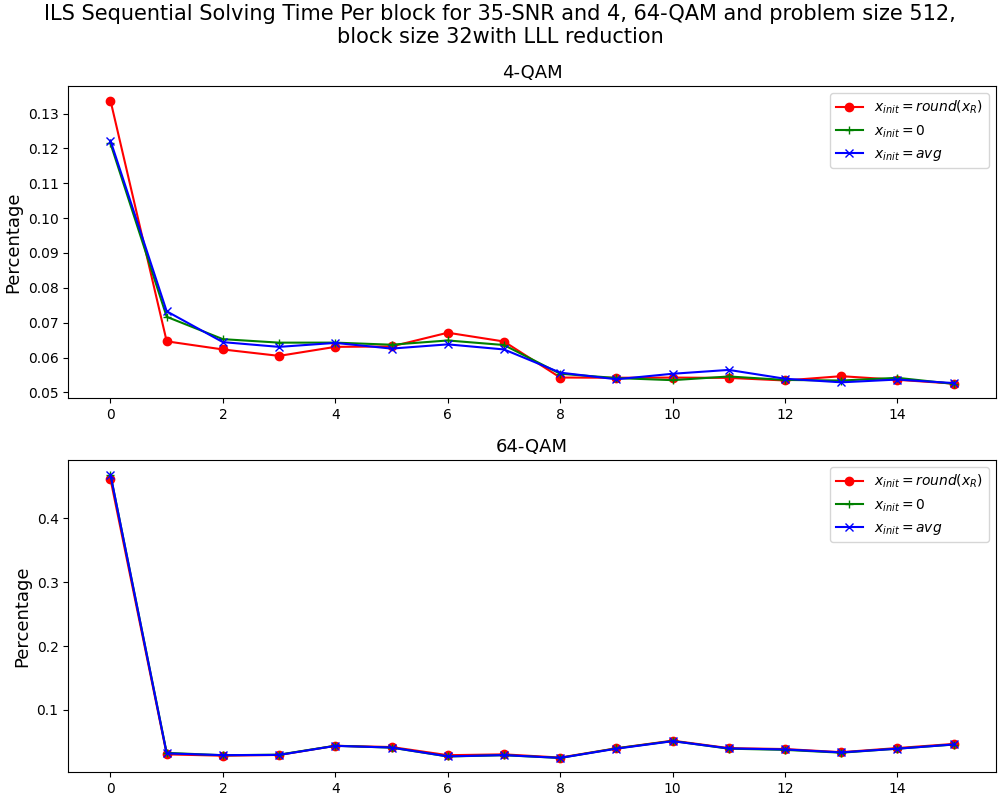
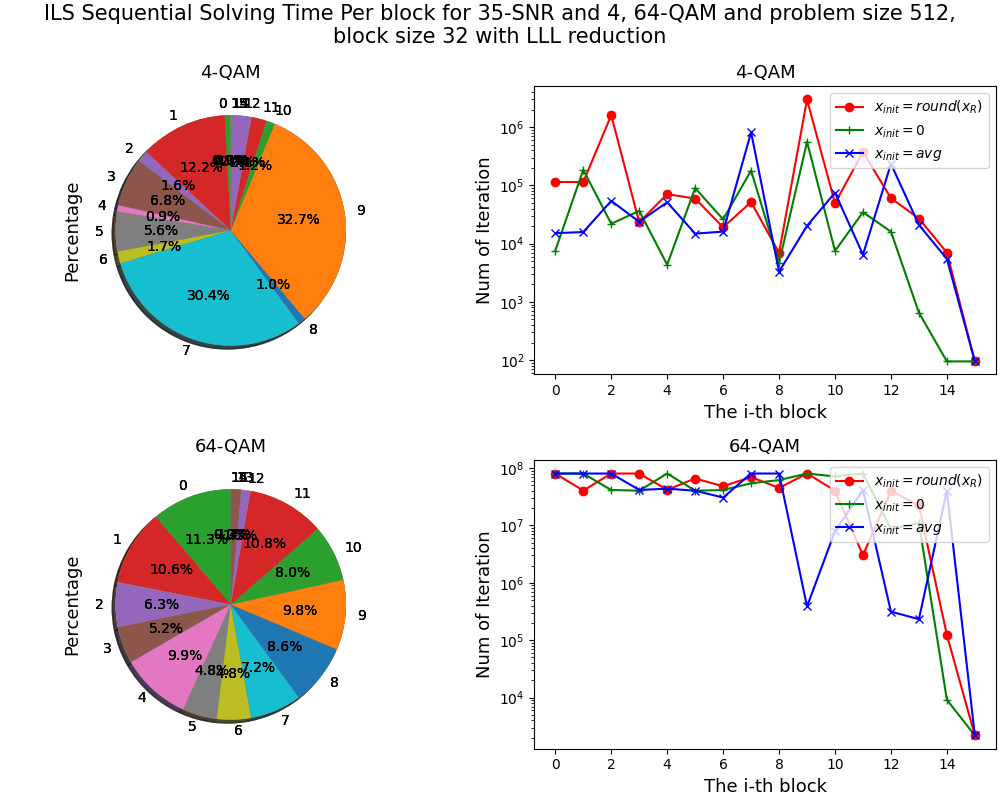
Merge os_x plot_helper

diff --git a/babai_asyn_c++/src/example/plot_helper.py b/babai_asyn_c++/src/example/plot_helper.py
@@ -71,7 +71,7 @@ def plot_runtime(n, SNR, k, l_max, block_size, max_iter, is_qr, res, ber, tim, i
     title = 'Residual Convergence and Bit Error Rate for ' + str(SNR) \
             + '-SNR and 4, 64-QAM with different number of threads and block size ' + str(block_size)
     if is_qr == 0:
-        title += 'with LLL reduction'
+        title += ' with LLL reduction'
 
     fig.suptitle("\n".join(wrap(title, 60)), fontsize=15)
 
@@ -84,7 +84,7 @@ def plot_runtime(n, SNR, k, l_max, block_size, max_iter, is_qr, res, ber, tim, i
 def plot_first_block(n, SNR, k, block_size, ser_tim, is_qr):
     print("\n----------PLOT BLOCK TIME--------------\n")
     plt2.rcParams["figure.figsize"] = (10, 8)
-    fig, axes2 = plt2.subplots(2, 1, constrained_layout=True)
+    fig, axes2 = plt2.subplots(2, 2, constrained_layout=True)
     color = ['r', 'g', 'b', 'y']
     marker = ['o', '+', 'x', '.']
     d_s = int(n / block_size)
@@ -94,24 +94,33 @@ def plot_first_block(n, SNR, k, block_size, ser_tim, is_qr):
         # SNR = int(lines[k].split(":")[1].split("\n")[0])
         # init_res = float(lines[k + 1].split(",")[0].split(":")[1].split("\n")[0])
         qam = 4 if j == 0 else 64
-        axes2[j].set_title(str(qam) + '-QAM', fontsize=13)
-        axes2[j].set_ylabel('Percentage', fontsize=13)
+        axes2[j, 0].set_title(str(qam) + '-QAM', fontsize=13)
+        axes2[j, 1].set_title(str(qam) + '-QAM', fontsize=13)
+        axes2[j, 0].set_ylabel('Percentage', fontsize=13)
+        axes2[j, 1].set_ylabel('Num of Iteration', fontsize=13)
+        axes2[j, 1].set_xlabel('The i-th block', fontsize=13)
 
-        for x in range(0, 3):
+        for x in range(0, 3): #only the $x_{init} = 0
             tim = []
+            itr = []
             for l in range(0, d_s):
-                tim.append(ser_tim[x][l][j])
+                tim.append(ser_tim[1][l][j])
+                itr.append(ser_tim[x][l + d_s][j])
 
-            labels = ['$x_{init} = round(x_R)$', '$x_{init} = 0$', '$x_{init} = avg$']
+            labels = ['$x_{init} = round(x_R)$', '$x_{init} = 0$', '$x_{init} = avg$']#range(0, d_s)#
 
             print(tim)
-            axes2[j].plot(range(0, d_s), tim, color=color[x], marker=marker[x], label=labels[x])
-            axes2[j].legend(loc="upper right")
+
+            #explode = (0, 0.1, 0, 0)  # only "explode" the 2nd slice (i.e. 'Hogs')
+            axes2[j, 0].pie(tim, labels=range(0, d_s), autopct='%1.1f%%', shadow=True, startangle=90)
+            axes2[j, 1].semilogy\
+                (range(0, d_s), itr, color=color[x], marker=marker[x], label=labels[x])
+            axes2[j, 1].legend(loc="upper right")
 
     title = 'ILS Sequential Solving Time Per block for ' + str(SNR) \
             + '-SNR and 4, 64-QAM and problem size ' + str(n) + ', block size ' + str(block_size)
     if is_qr == 0:
-        title += 'with LLL reduction'
+        title += ' with LLL reduction'
     fig.suptitle("\n".join(wrap(title, 85)), fontsize=15)
     plt2.savefig('./' + str(n) + '_block_time_' + str(SNR) + '_' + str(block_size) + '_' + str(is_qr))
     plt2.close()

diff --git a/babai_asyn_c++/src/source/cils_block_search.cpp b/babai_asyn_c++/src/source/cils_block_search.cpp
@@ -25,7 +25,7 @@ namespace cils {
         cout << endl;
         index ds = d->size(), dx = d->at(ds - 1), n_dx_q_0, n_dx_q_1;
         vector<scalar> y_b(n, 0);
-        vector<scalar> time(ds, 0);
+        vector<scalar> time(2 * ds, 0);
         //special cases:
         if (ds == 1) {
             if (d->at(0) == 1) {
@@ -45,12 +45,23 @@ namespace cils {
             //Find the Babai point
             return cils_babai_search_serial(z_B);
         }
+
+        vector<index> r_d = d_s;
+        std::random_shuffle(r_d.begin(), r_d.end());
+        for(index i = 0; i < ds; i++){
+            cout << r_d[i] << " ";
+        }
+        cout << endl;
+
         scalar start = omp_get_wtime();
-
         for (index i = 0; i < ds; i++) {
-            n_dx_q_0 = i == 0 ? n - dx : n - d->at(ds - 1 - i);
-            n_dx_q_1 = i == 0 ? n : n - d->at(ds - i);
-
+//            n_dx_q_0 = i == 0 ? n - dx : n - d->at(ds - 1 - i);
+//            n_dx_q_1 = i == 0 ? n : n - d->at(ds - i);
+            n_dx_q_1 = r_d[i];
+            n_dx_q_0 = r_d[i] - block_size;
+            cout << n_dx_q_1 / block_size - 1 << ", ";
+            index time_index = n_dx_q_1 / block_size - 1;
+            time[time_index] = omp_get_wtime();
             for (index row = n_dx_q_0; row < n_dx_q_1; row++) {
                 scalar sum = 0;
                 for (index col = n_dx_q_1; col < n; col++) {
@@ -59,12 +70,12 @@ namespace cils {
                 }
                 y_b[row] = y_A->x[row] - sum;
             }
-            time[i] = omp_get_wtime();
+
             if (is_constrained)
-                ils_search_obils(n_dx_q_0, n_dx_q_1, &y_b, z_B);
+                time[time_index + ds] = ils_search_obils(n_dx_q_0, n_dx_q_1, &y_b, z_B);
             else
                 ils_search(n_dx_q_0, n_dx_q_1, &y_b, z_B);
-            time[i] = omp_get_wtime() - time[i];
+            time[time_index] = omp_get_wtime() - time[time_index];
         }
 
         scalar run_time = omp_get_wtime() - start;
@@ -97,8 +108,8 @@ namespace cils {
         scalar run_time3;
         //n_dx_q_0, n_dx_q_1, row_n
         scalar run_time = omp_get_wtime();
-        ils_search_obils_omp2(n - dx, n, 0, ds, 1, R_S, y_B, z_x);
-        result[0] = 1;
+        //ils_search_obils_omp2(n - dx, n, 0, ds, 1, R_S, y_B, z_x);
+        //result[0] = 1;
         scalar run_time4 = omp_get_wtime() - run_time;
 
 
@@ -123,7 +134,7 @@ namespace cils {
 //#pragma omp barrier
             for (index j = 0; j < nswp && !flag; j++) {
 #pragma omp for schedule(dynamic) nowait
-                for (index i = 1; i < ds; i++) {
+                for (index i = 0; i < ds; i++) {
 //                    if (front >= i && end <= i) {
 //                        front++;
                     if (!result[i] && !flag) {// front >= i && end <= i

diff --git a/babai_asyn_c++/src/example/cils_gen_test.cpp b/babai_asyn_c++/src/example/cils_gen_test.cpp
@@ -86,9 +86,10 @@ long plot_run() {
                     ber[init + 1][1][count] += cils::find_bit_error_rate<scalar, index, n>(&z_B, &cils.x_t, k);
                     tim[init + 1][1][count] += reT.run_time;
 
-                    scalar block_ils_time = std::accumulate(reT.x.begin(), reT.x.end(), 0.0);
+                    scalar block_ils_time = std::accumulate(reT.x.begin(), reT.x.begin() + d_s.size(), 0.0);
                     for (index ser_tim_itr = 0; ser_tim_itr < d_s.size(); ser_tim_itr++){
-                        ser_tim[init + 1][ser_tim_itr][count] += (reT.x[ser_tim_itr] / block_ils_time) / (max_iter - 1);
+                        ser_tim[init + 1][ser_tim_itr][count] += (reT.x[ser_tim_itr] / block_ils_time) / max_iter;
+                        ser_tim[init + 1][ser_tim_itr + d_s.size()][count] +=reT.x[ser_tim_itr + d_s.size()] / max_iter;
                     }
 
                     l = 2;
@@ -107,7 +108,7 @@ long plot_run() {
                 printf("%d-Time: %.5fs, ", i, run_time);
                 cout.flush();
             }
-            max_iter--;
+//            max_iter--;
             for (index init = -1; init <= 1; init++) {
                 for (index ll = 0; ll < l; ll++) {
                     res[init + 1][ll][count] = res[init + 1][ll][count] / max_iter;
@@ -147,7 +148,7 @@ long plot_run() {
                 printf("++++++++++++++++++++++++++++++++++++++\n");
             }
             count++;
-            max_iter++;
+//            max_iter++;
         }
         printf("End of current TASK.\n");
         printf("-------------------------------------------\n");

diff --git a/babai_asyn_c++/src/include/config.h b/babai_asyn_c++/src/include/config.h
@@ -23,24 +23,24 @@ namespace cils {
          */
         index k = 3;
         index SNR = 35;
-        index max_iter = 100;
+        index max_iter = 2;
         index search_iter = 10;
         index stop = 2;
         index schedule = 2;
         index chunk_size = 1;
-        index block_size = 16;
+        index block_size = 32;
         index is_constrained = true;
         index is_read = false;
         index is_matlab = true; //Means LLL reduction
-        index is_qr = true;
+        index is_qr = false;
         index mode = 1; //test mode 3: c++ gen
         index num_trials = 10; //nswp
         index is_local = 1;
-        index max_search = 1000;//INT_MAX;
+        index max_search = 1000000;//INT_MAX;
         index min_proc = 3;
 
         index max_proc = omp_get_max_threads();
-        index max_thre = 8000000;//maximum search allowed for serial ils.
+        index max_thre = 80000000;//maximum search allowed for serial ils.
 
         string suffix = "" + to_string(N);
         string prefix = is_local ? "../../" : "";

diff --git a/babai_asyn_c++/main.cpp b/babai_asyn_c++/main.cpp
@@ -91,6 +91,7 @@ void run_test(int argc, char *argv[]) {
 int main(int argc, char *argv[]) {
 //    load_test();
 //    qr_test<double, int, 4096>();
+    printf("--------------------\n start \n");
     double t = omp_get_wtime();
     run_test(argc, argv);
     printf("\n--------------------\n TOTAL TIME: \n %.5f,", omp_get_wtime() - t);

diff --git a/babai_asyn_c++/src/source/cils_ils_search.cpp b/babai_asyn_c++/src/source/cils_ils_search.cpp
@@ -128,10 +128,10 @@ namespace cils {
                 }
             }
         }
-        if (mode == 3) {
+        if (mode == 1) {
             cout << count << "," << iter << ";";
         }
-        return diff;
+        return count;
     }
 
     template<typename scalar, typename index, index n>
